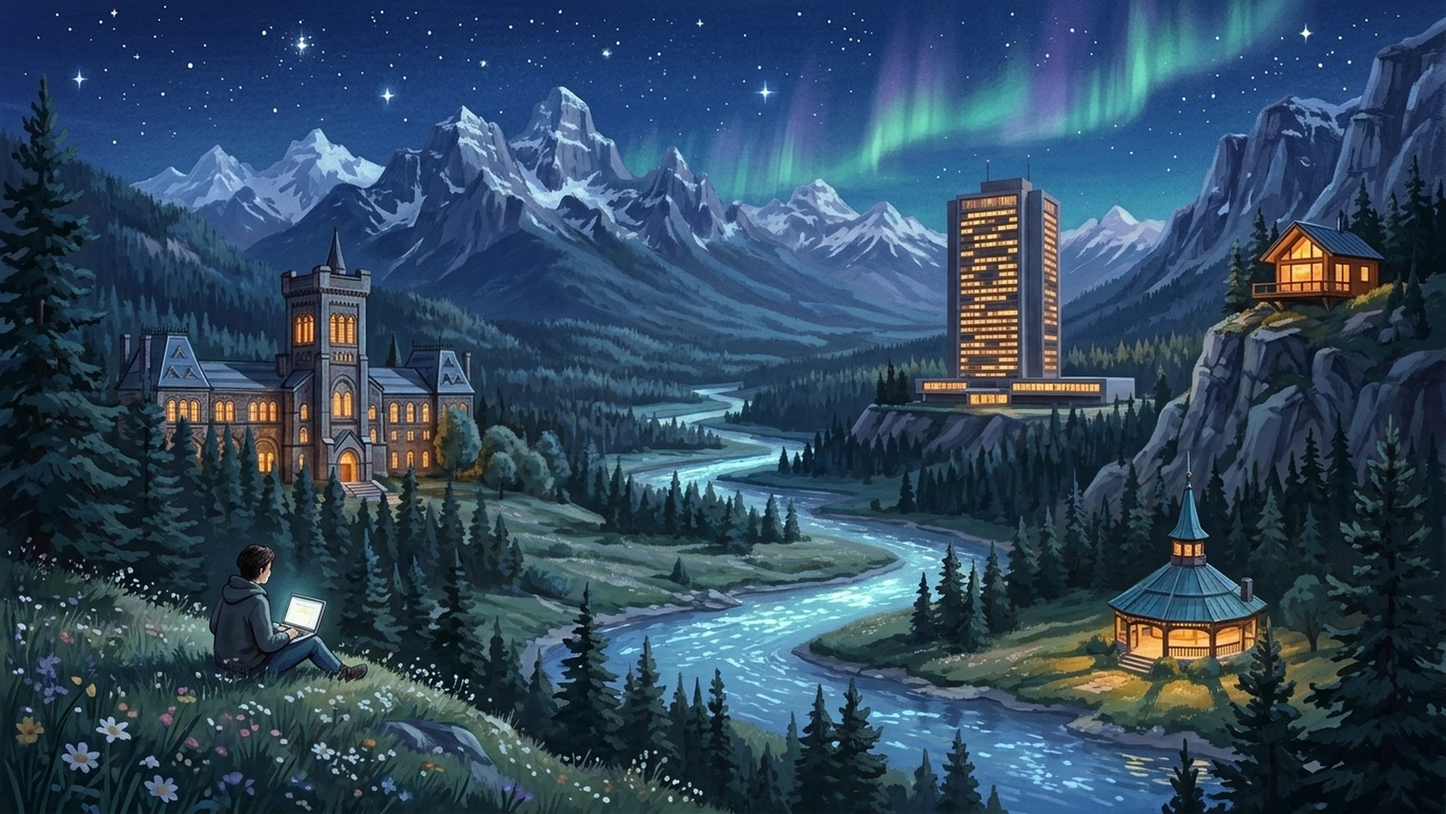
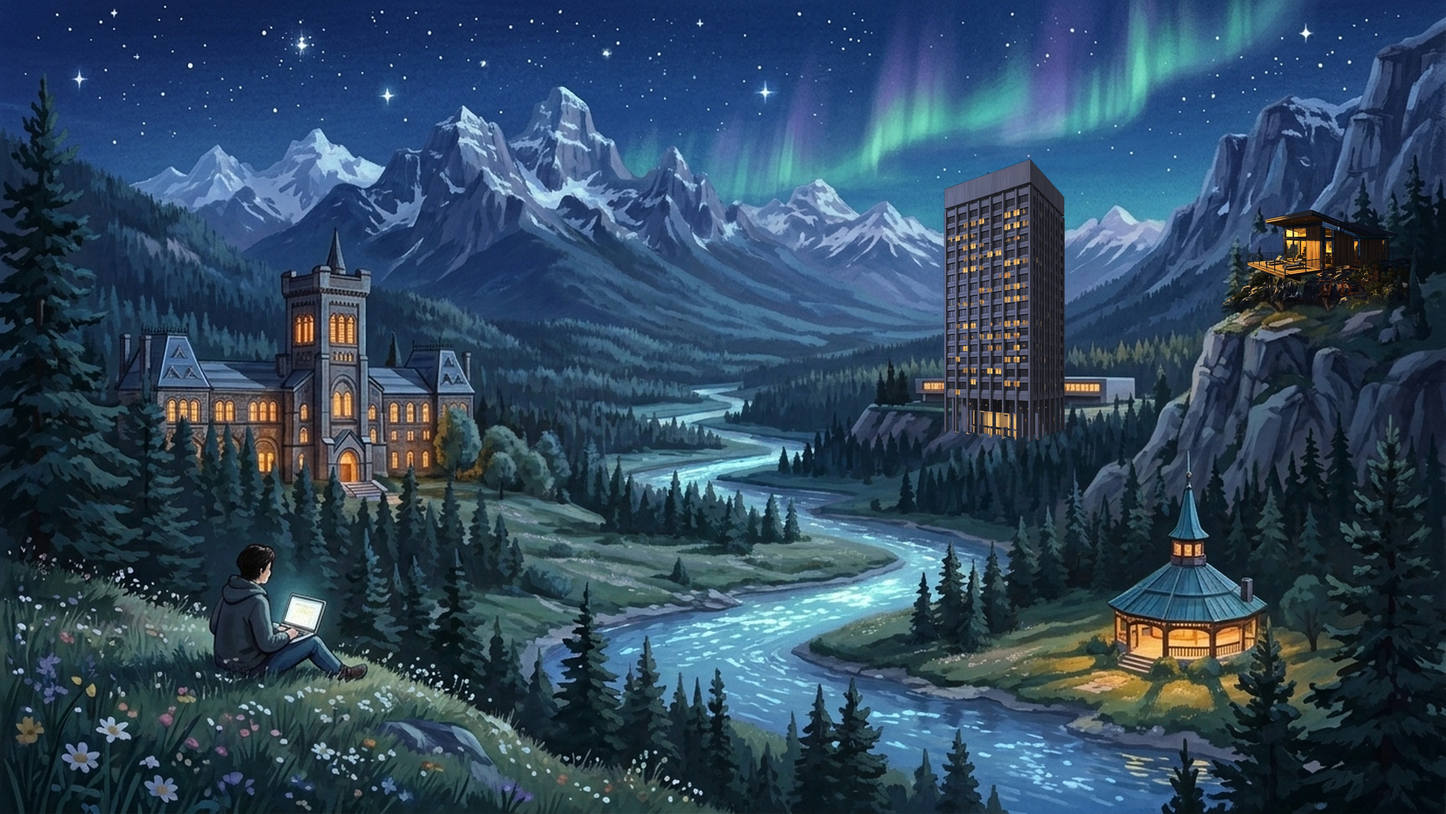
feat(hero): integrate pixel-aligned authentic R.H. Coats tower and modern cottage plates
- Synchronize 100% pixel-aligned geometry between day and night hero plates
- Update R.H. Coats Building to 26-storey brutalist concrete tower matching reference photo (continuous fins, 8 bays, open pilotis colonnade, flat parapet roofline)
- Update cliff cabin to Canadian modern retreat cottage with slanted mono-pitch roof and cantilevered deck
- Retain Peter's original downward head-tilt posture with natural Asian black hair
- Add cache-busting version query string (v=20261024d) to plate assets and styles

Changed region(s): [[0.625, 0.1865, 0.75, 0.5595], [0.8438, 0.2487, 0.9688, 0.373]]

diff --git a/index.html b/index.html
@@ -16,12 +16,12 @@
 <link rel="preconnect" href="https://fonts.googleapis.com">
 <link rel="preconnect" href="https://fonts.gstatic.com" crossorigin>
 <link rel="stylesheet" href="https://fonts.googleapis.com/css2?family=Bricolage+Grotesque:opsz,wght@12..96,400;12..96,500;12..96,600;12..96,700;12..96,800&family=Geist:wght@400;600&family=Gaegu:wght@400;700&family=Anton&family=Mrs+Saint+Delafield&display=swap">
-<link rel="stylesheet" href="styles.css?v=20261023c">
+<link rel="stylesheet" href="styles.css?v=20261024d">
 
 <script>(() => { let t = null; try { t = localStorage.getItem('jc-theme'); } catch (_) {} document.documentElement.dataset.theme = t || (matchMedia('(prefers-color-scheme: dark)').matches ? 'dark' : 'light'); })();</script>
 <header class="bar">
   <button class="np" id="np" type="button" aria-label="Play music" title="Play music"><span class="np-d" aria-hidden="true"></span><span class="np-t">Music in the valley</span><span class="np-b" aria-hidden="true"><i></i><i></i></span></button>
-<div class="vc" id="vc" aria-live="polite"><i aria-hidden="true"></i><span><b class="pkg-node-count">562</b><span class="vc-w"> PKG nodes</span></span></div>
+<div class="vc" id="vc" aria-live="polite"><i aria-hidden="true"></i><span><b class="pkg-node-count">568</b><span class="vc-w"> PKG nodes</span></span></div>
     <button type="button" class="sfx-btn" id="sfxBtn" aria-pressed="true" aria-label="Sound effects on" title="Sound on/off"><svg class="on" viewBox="0 0 24 24" aria-hidden="true"><path d="M4 9.5v5h3.5L12 18.5v-13L7.5 9.5z"/><path d="M15.5 9a4 4 0 0 1 0 6M18 6.5a7.5 7.5 0 0 1 0 11"/></svg><svg class="off" viewBox="0 0 24 24" aria-hidden="true"><path d="M4 9.5v5h3.5L12 18.5v-13L7.5 9.5z"/><path d="M16 9.5l5 5M21 9.5l-5 5"/></svg></button>
 
 <button class="theme-btn" id="themeBtn" type="button" aria-label="Switch theme"><span class="ti"><svg class="moon" viewBox="0 0 24 24"><path d="M20 14.5A8.5 8.5 0 0 1 9.5 4a8.5 8.5 0 1 0 10.5 10.5z"/></svg><svg class="sun" viewBox="0 0 24 24"><circle cx="12" cy="12" r="4.2"/><path d="M12 2.5v2M12 19.5v2M2.5 12h2M19.5 12h2M5.3 5.3l1.4 1.4M17.3 17.3l1.4 1.4M5.3 18.7l1.4-1.4M17.3 6.7l1.4-1.4"/></svg></span><span class="tl"><b class="tl-n">Night</b><b class="tl-d">Day</b></span></button>
@@ -45,7 +45,7 @@
     <div class="hero-scrim" id="heroScrim" aria-hidden="true"></div>
     <div class="cam" id="cam">
       <div class="scene" id="scene">
-        <div class="ly keep" data-d=".3" id="L-plate"><img class="plate" src="v2/h/plate.webp" alt="Painted Canadian Rocky Mountains valley at sunset: University of Toronto's Innis College on the left ridge, Statistics Canada's R.H. Coats Building on the right terrace, a copper-roofed civic pavilion by the turquoise river, Peji Systems cabin on the upper cliff, and Peter with a laptop on a wildflower meadow"></div>
+        <div class="ly keep" data-d=".3" id="L-plate"><img class="plate" src="v2/h/plate.webp?v=20261024d" alt="Painted Canadian Rocky Mountains valley at sunset: University of Toronto's Innis College on the left ridge, Statistics Canada's R.H. Coats Building on the right terrace, a copper-roofed civic pavilion by the turquoise river, Peji Systems modern cottage on the upper cliff, and Peter with a laptop on a wildflower meadow"></div>
         <div class="ly" data-d=".5" data-id="oyo"><button class="hot" data-id="oyo" aria-label="Peji Systems &amp; Sovereign AI Lab on the cliff" style="left:84%;top:21%;width:14.5%;height:19%"></button><button class="pin" data-id="oyo" style="left:90.5%;top:27.5%;--c:#13233A"><b><img src="v2/s/logo-peji.webp" alt="">Peji Systems<small class="pyr">Now</small></b><i class="pd" aria-hidden="true"></i></button></div>
         <div class="ly" data-d=".5" data-id="mmt"><button class="hot" data-id="mmt" aria-label="R.H. Coats Building, Statistics Canada" style="left:62%;top:20%;width:16%;height:31%"></button><button class="pin" data-id="mmt" style="left:69.5%;top:36%;--c:#C8202A"><b><img src="v2/s/logo-statcan.webp" alt="">R.H. Coats · StatCan<small class="pyr">2011–26</small></b><i class="pd" aria-hidden="true"></i></button></div>
         <div class="ly" data-d=".5" data-id="nsut"><button class="hot" data-id="nsut" aria-label="Innis College, University of Toronto" style="left:8%;top:27%;width:24%;height:30%"></button><button class="pin" data-id="nsut" style="left:20.5%;top:38%;--c:#1E3765"><b><img src="v2/s/logo-uoft.webp" alt="">Innis College · U of T<small class="pyr">2009 · 2026</small></b><i class="pd" aria-hidden="true"></i></button></div>
@@ -206,11 +206,11 @@
         <li style="--c:#F2A93B;--d:1"><i class="hat"><svg viewBox="0 0 64 44"><path d="M10 32c0-14 10-24 22-24s22 10 22 24z" fill="#FF6B4A"/><path d="M26 10h12l-2-4h-8z" fill="#E14F30"/><path d="M4 32h30c-2 5-8 8-14 8-8 0-14-3-16-8z" fill="#E14F30"/><path d="M34 32h24v4H34z" fill="#C63E22"/><path d="M40 14c4 2 7 6 8 11" stroke="#fff" stroke-width="2.4" fill="none" stroke-linecap="round" opacity=".5"/></svg></i><b>Tier 02 · Medium (8–14d)</b><span>Workflow automation &amp; daily data pipelines (mkdailysender)</span></li>
         <li style="--c:#C98B52;--d:2"><i class="hat"><svg viewBox="0 0 64 44"><ellipse cx="32" cy="26" rx="26" ry="12" fill="#C98B52"/><ellipse cx="30" cy="24" rx="22" ry="9" fill="#DDA36B"/><path d="M31 15c1-5 3-8 3-8" stroke="#8B5E33" stroke-width="3" stroke-linecap="round"/><circle cx="20" cy="24" r="3" fill="#FF6B4A"/><circle cx="30" cy="27" r="3" fill="#4285F4"/><circle cx="40" cy="24" r="3" fill="#FFD23F"/></svg></i><b>Tier 03 · Large (15+d)</b><span>Custom multi-view apps &amp; DDI 3.3 survey platforms (pa.peji.ca)</span></li>
         <li style="--c:#1DB954;--d:3"><i class="hat"><svg viewBox="0 0 64 44"><path d="M10 30c0-13 10-22 22-22s22 9 22 22z" fill="#FFC21A"/><path d="M26 9h12v21H26z" fill="#F2AE00"/><path d="M4 30h56v5c0 2-2 4-4 4H8c-2 0-4-2-4-4z" fill="#F2AE00"/><path d="M16 22c2-6 6-10 10-11" stroke="#fff" stroke-width="2.4" fill="none" stroke-linecap="round" opacity=".6"/></svg></i><b>Sovereign Local AI</b><span>M5 Ultra (256GB) zero-cloud-leakage hooks (peji.ca/localllm)</span></li>
-        <li style="--c:#0B0B0C;--d:4"><i class="hat"><svg viewBox="0 0 64 44"><path d="M32 2L50 38H14z" fill="#9C7BFF"/><path d="M23 20l18 8M19 28l24 9M28 10l12 6" stroke="#FFD23F" stroke-width="3" stroke-linecap="round"/><circle cx="32" cy="3" r="4" fill="#FF6B4A"/><path d="M10 38h44" stroke="#7B5CD6" stroke-width="4" stroke-linecap="round"/></svg></i><b>Digital Brain (PKG)</b><span><span class="pkg-node-count">562</span>-node Obsidian graph + autonomous daily review agents</span></li>
+        <li style="--c:#0B0B0C;--d:4"><i class="hat"><svg viewBox="0 0 64 44"><path d="M32 2L50 38H14z" fill="#9C7BFF"/><path d="M23 20l18 8M19 28l24 9M28 10l12 6" stroke="#FFD23F" stroke-width="3" stroke-linecap="round"/><circle cx="32" cy="3" r="4" fill="#FF6B4A"/><path d="M10 38h44" stroke="#7B5CD6" stroke-width="4" stroke-linecap="round"/></svg></i><b>Digital Brain (PKG)</b><span><span class="pkg-node-count">568</span>-node Obsidian graph + autonomous daily review agents</span></li>
         <li style="--c:#E1306C;--d:5"><i class="hat"><svg viewBox="0 0 64 44"><rect x="18" y="4" width="28" height="28" rx="2" fill="#1B1B1F"/><rect x="18" y="22" width="28" height="6" fill="#E1306C"/><path d="M4 34c0-2 2-3 4-3h48c2 0 4 1 4 3s-2 4-4 4H8c-2 0-4-2-4-4z" fill="#111114"/><path d="M22 8v10" stroke="#fff" stroke-width="2" stroke-linecap="round" opacity=".25"/></svg></i><b>Nonprofit Friendly</b><span>Low-cost or pro-bono builds for local community impact</span></li>
       </ol>
     </div>
-    <ul class="ll-stats"><li><b>40+</b><span>prototypes &amp; apps shipped</span></li><li><b class="pkg-node-count">562</b><span>Digital Brain PKG nodes</span></li><li><b>256 GB</b><span>M5 Ultra unified memory air-gap</span></li></ul>
+    <ul class="ll-stats"><li><b>40+</b><span>prototypes &amp; apps shipped</span></li><li><b class="pkg-node-count">568</b><span>Digital Brain PKG nodes</span></li><li><b>256 GB</b><span>M5 Ultra unified memory air-gap</span></li></ul>
     <div class="ll-cta">
       <a class="ll-store" href="https://peji.ca" target="_blank" rel="noopener"><svg viewBox="0 0 24 24"><path fill="currentColor" d="M12 2L2 7l10 5 10-5-10-5zm0 7.5l-6-3 6-3 6 3-6 3zm0 2.5l-10-5v2l10 5 10-5v-2l-10 5zm0 5l-10-5v2l10 5 10-5v-2l-10 5z"/></svg><span><small>Explore consulting &amp; demos</small>Visit peji.ca ↗</span></a>
       <a class="ll-follow" href="https://peji.ca/localllm" target="_blank" rel="noopener">Read the Zero-Cloud-Leakage Local AI Architecture ↗</a>
@@ -426,7 +426,7 @@
         <p class="ab-k">Off the clock</p>
         <h4>Hi, I’m Peter. Beyond the resume.</h4>
         <b>Things I love building &amp; doing</b>
-        <ul><li>Building 3D RTS &amp; party games with my kids (Wobbleton)</li><li>Writing 'Artificially Sociological' on Substack</li><li>Automating community skating clubs &amp; local nonprofits</li><li>Growing a <span class="pkg-node-count">562</span>-node Personal Knowledge Graph</li></ul>
+        <ul><li>Building 3D RTS &amp; party games with my kids (Wobbleton)</li><li>Writing 'Artificially Sociological' on Substack</li><li>Automating community skating clubs &amp; local nonprofits</li><li>Growing a <span class="pkg-node-count">568</span>-node Personal Knowledge Graph</li></ul>
         <b>Background &amp; languages</b>
         <ul><li>Sociologist &amp; Economist · Bilingual (English / French E/C/C)</li><li>Treating AI as a normal technology — grounded &amp; practical</li></ul>
       </div>
@@ -436,9 +436,9 @@
       <div class="item vinyl p5" style="left:38%;top:44%;--r:-3deg" tabindex="0" title="Tap to open Substack"><div class="vn-sleeve"><svg viewBox="0 0 24 24"><path d="M4 6h16M4 10h16M4 14l8 5 8-5V14z"/></svg><b>Substack</b><small>Essays &amp; Notes</small></div><div class="vn-disc"><i></i></div><span>field notes</span><div class="vn-ask" role="dialog" aria-label="Open Substack"><b>Read Artificially Sociological?</b><a href="https://peji.ca" target="_blank" rel="noopener">Explore Essays &amp; Reflections ↗</a><button type="button" class="vn-x" aria-label="Close">×</button></div></div>
       <figure class="item polaroid pinned pol-sm pc4" style="left:64%;top:32%;--r:3deg;--pc:#2A7BD1;width:165px;margin:0"><img src="v2/s/life-sister.png" alt="Family Kitchen Meal Planner PWA" loading="lazy"><figcaption>Family Kitchen PWA</figcaption></figure>
       <figure class="item polaroid pinned pol-sm pc5" style="left:2%;top:45%;--r:-4deg;--pc:#F2B705;width:165px;margin:0"><img src="v2/s/life-cars.png" alt="MKSC Skating Club Automation" loading="lazy"><figcaption>MKSC skating club app</figcaption></figure>
-      <figure class="item polaroid pinned pol-sm pc6" style="left:19%;top:47%;--r:3deg;--pc:#E4402A;width:175px;margin:0"><img src="v2/s/life-olive.png" alt="Digital Brain PKG" loading="lazy"><figcaption><span class="pkg-node-count">562</span>-node Digital Brain</figcaption></figure>
+      <figure class="item polaroid pinned pol-sm pc6" style="left:19%;top:47%;--r:3deg;--pc:#E4402A;width:175px;margin:0"><img src="v2/s/life-olive.png" alt="Digital Brain PKG" loading="lazy"><figcaption><span class="pkg-node-count">568</span>-node Digital Brain</figcaption></figure>
       <figure class="item polaroid pinned pol-sm pc7" style="left:47%;top:66%;--r:-3deg;--pc:#2A7BD1;width:165px;margin:0"><img src="v2/s/life-gym.png" alt="M5 Ultra 256GB Air-Gap Lab" loading="lazy"><figcaption>M5 Ultra 256GB lab</figcaption></figure>
-      <div class="item note taped p17" id="pkgNote" style="--sc:#D9CCFF;left:78%;top:70%;--r:-4deg;width:180px"><span class="pkg-node-count">562</span> nodes in my PKG.<small><span class="pkg-week-diff">+9</span> nodes this week · Obsidian</small></div>
+      <div class="item note taped p17" id="pkgNote" style="--sc:#D9CCFF;left:78%;top:70%;--r:-4deg;width:180px"><span class="pkg-node-count">568</span> nodes in my PKG.<small><span class="pkg-week-diff">+14</span> nodes this week · Obsidian</small></div>
       <div class="item ticket pinned p7" style="left:4%;top:76%;--r:3deg;--pc:#C8202A">
         <div class="tk-main">
           <div class="tk-top"><span class="tk-air">Corridor</span><small>One-Year AI Journey</small></div>

diff --git a/app.js b/app.js
@@ -277,11 +277,11 @@ void main() {
       });
       g.uniform1i(glU.uTex, 0); g.uniform1i(glU.uDep, 1); g.uniform1i(glU.uTexN, 2);
       gl = g;
-      Promise.all([load('v2/h/plate.webp', 0, true), load('v2/h/depth2.png', 1, false)]).then(() => {
+      Promise.all([load('v2/h/plate.webp?v=20261024d', 0, true), load('v2/h/depth2.png', 1, false)]).then(() => {
         glReady = true; scene.classList.add('gl'); sizeGL(); glc.classList.add('on');
         if (!mobile) drawGL(0, 0, 0, .016);
         // the night painting loads once it is wanted (or a few seconds after the day one)
-        const wantN = () => { if (nightLoad) return; nightLoad = load('v2/h/plate-night2.webp', 2, true).then(() => { nightReady = true; glc.classList.add('nt'); }).catch(() => {}); };
+        const wantN = () => { if (nightLoad) return; nightLoad = load('v2/h/plate-night2.webp?v=20261024d', 2, true).then(() => { nightReady = true; glc.classList.add('nt'); }).catch(() => {}); };
         if (document.documentElement.dataset.theme === 'dark') wantN(); else setTimeout(wantN, 1500); addEventListener('themechange', () => { wantN(); if (glReady && !mobile) { glKey = ''; drawGL(lastDraw[0], lastDraw[1], lastDraw[2], .016); } });
       }).catch(err => {
         console.warn('plate shader fallback to image:', err);

diff --git a/styles.css b/styles.css
@@ -4174,10 +4174,10 @@ html:root .cs .cs-bar button.cs-close { width: 48px; height: 48px; padding: 0 !i
 .ph-hero { display: none; }
 @media (max-width: 859px) {
   /* the painting itself, edge to edge, no colour laid over it; it is pinned a little right of centre so the buildings on that side stay in view */
-  .ph-hero { display: block; position: absolute; inset: 0; z-index: 0; pointer-events: none; background: url("v2/h/phone-day.webp?v=20261023c") 65% 100% / cover no-repeat; }
+  .ph-hero { display: block; position: absolute; inset: 0; z-index: 0; pointer-events: none; background: url("v2/h/phone-day.webp?v=20261024d") 65% 100% / cover no-repeat; }
   .stage .cam { display: none !important; }
   .stage::before { display: none !important; }
-  :root[data-theme="dark"] .ph-hero { background-image: url("v2/h/phone-night.webp?v=20261023c"); }
+  :root[data-theme="dark"] .ph-hero { background-image: url("v2/h/phone-night.webp?v=20261024d"); }
 }
 
 /* case-study footer: on phones the socials are just their logos; laptops keep the labelled pills */
